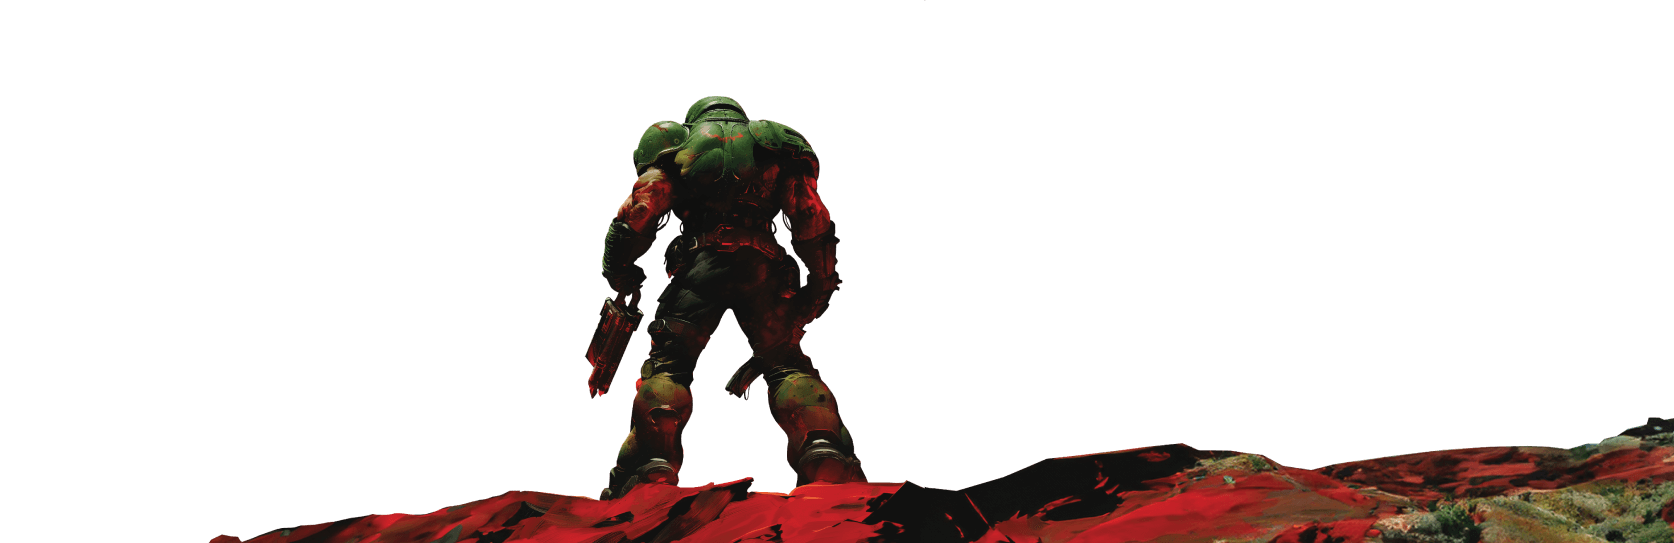
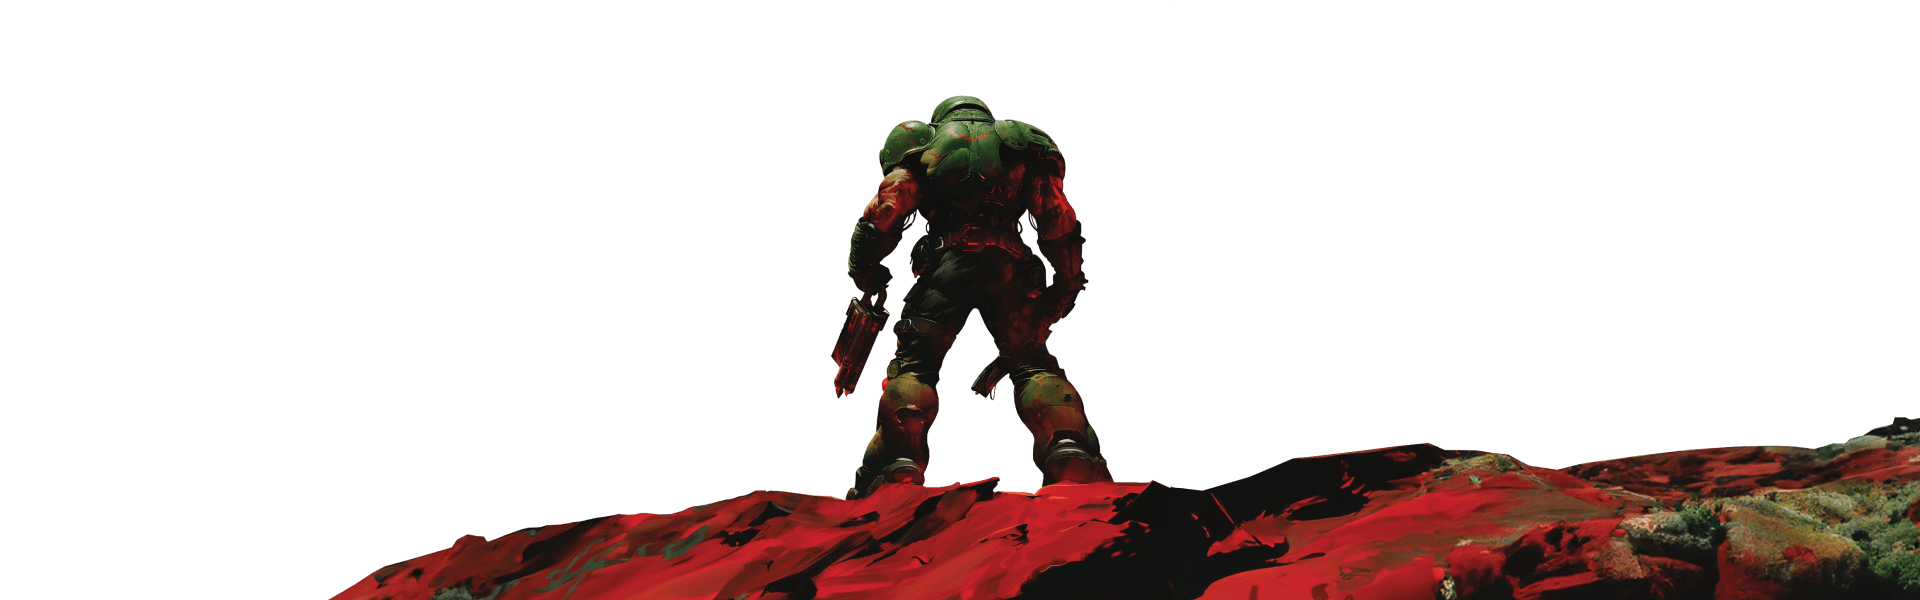
Centralise doom guy on holding page

Changed region(s): [[0.1243, 0.1473, 1.0, 1.0]]

diff --git a/holding-page/holding.css b/holding-page/holding.css
@@ -238,9 +238,9 @@ a:hover {
   position: relative;
   z-index: 2;
   overflow: hidden;
-  margin-top: -100px;
+  margin-top: -85px;
   max-height: 50vh;
-  min-height: 500px;
+  min-height: 560px;
   height: 900px;
 }
 
@@ -265,7 +265,7 @@ a:hover {
 }
 
 .bg--guy {
-  max-width: 1600px;
+  max-width: 1920px;
   position: absolute;
   bottom: 0;
   right: 0;
@@ -277,18 +277,20 @@ a:hover {
   );
   background-size: cover;
   background-repeat: no-repeat;
-  background-position: right 85% bottom;
+  background-position: center bottom;
 }
 
-@media (max-width: 1200px) {
-  .bg--guy {
-    background-position: right 72% bottom;
+@media (min-width: 1921px) {
+  .layer--foreground {
+    max-height: none;
+    min-height: auto;
+    height: auto;
+    margin-top: -100px;
+    padding: 15%;
   }
-}
 
-@media (max-width: 768px) {
   .bg--guy {
-    background-position: right 60% bottom;
+    max-width: none;
   }
 }
 
